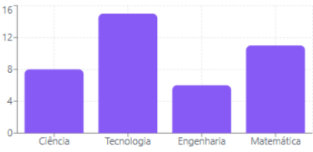
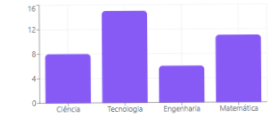
Add files via upload

Changed region(s): [[0.0, 0.025, 1.0, 0.975]]

diff --git a/index.html b/index.html
@@ -10,9 +10,10 @@
         crossorigin="anonymous">
     <title>Início</title>
 </head>
-<body>
-    <nav class="navbar navbar-expand-lg" style="background-color: #008bee;" >
-  <div class="container-fluid">
+<body style="background-color: #f5fafa;">
+  
+    <nav class="navbar navbar-expand-lg" style="background-color: #c9eaff; width: 100%;" >
+    <div class="container-fluid">
     <a class="navbar-brand" href="#">Trilha STEM</a>
     <button class="navbar-toggler" type="button" data-bs-toggle="collapse" data-bs-target="#navbarNav" aria-controls="navbarNav" aria-expanded="false" aria-label="Toggle navigation">
       <span class="navbar-toggler-icon"></span>
@@ -21,12 +22,13 @@
     </div>
   </div>
 </nav>
-<br>
 
+<br>
+<div class="body-elements">
 <div class="row row-cols-1 row-cols-md-2 g-4">
   <div class="col">
     <div class="card">
-      <div class="card-body bg-dark">        
+      <div class="card-body" style="background-color: #3066c9; border-radius: 5px;">
         <h5 class="card-title text-light">95</h5>
         <p class="card-text text-light">Total de alunos</p>
       </div>
@@ -35,7 +37,7 @@
 
   <div class="col">
     <div class="card">
-      <div class="card-body bg-success">
+      <div class="card-body" style="background-color: #289951; border-radius: 5px;">
         <h5 class="card-title text-light">77%</h5>
         <p class="card-text text-light">Engajamento médio</p>
       </div>
@@ -44,7 +46,7 @@
 
   <div class="col">
     <div class="card">
-      <div class="card-body bg-primary">
+      <div class="card-body" style="background-color: #823bb8; border-radius: 5px;">
         <h5 class="card-title text-light">82</h5>
         <p class="card-text text-light">Testes completados</p>
       </div>
@@ -53,7 +55,7 @@
 
   <div class="col">
     <div class="card">
-      <div class="card-body bg-danger">
+      <div class="card-body" style="background-color: #ce510d; border-radius: 5px;">
         <h5 class="card-title text-light">12</h5>
         <p class="card-text text-light">Precisam de atenção</p>
       </div>
@@ -67,20 +69,20 @@
   <div class="card-body">
     <div class="row">
   <div class="col-sm-6 mb-3 mb-sm-0">
-    <div class="card">
+    <div class="card" style="background-color: #f9f5e6; border-radius: 5px;">
       <div class="card-body">
         <h5 class="card-title">Crie um algoritimo de ordenação</h5>
         <p class="card-text">Detalhes da atividade.</p>
-        <a href="#" class="btn btn-warning">Ver atividade</a>
+        <a href="#" class="btn" style="background-color: #e7c78d;">Ver atividade</a>
       </div>
     </div>
   </div>
   <div class="col-sm-6">
-    <div class="card">
+    <div class="card" style="background-color: #f9f5e6; border-radius: 5px;">
       <div class="card-body">
         <h5 class="card-title">Explore as leis de newton</h5>
         <p class="card-text">Detalhes da atividade.</p>
-        <a href="#" class="btn btn-warning">Ver atividade</a>
+        <a href="#" class="btn" style="background-color: #e7c78d;">Ver atividade</a>
       </div>
     </div>
   </div>
@@ -92,7 +94,7 @@
   <div class="col">
     <div class="card">
       <h5 class="card-title">Distribuição de interesses STEM.</h5>
-      <img src="Gráfico 1.png" class="card-img-top" alt="..." >
+      <img src="Gráfico 1.png" class="card-img-top" style="  width: 100%; height: auto; max-height: 262px;" alt="..." >
       <div class="card-body">
       </div>
     </div>
@@ -101,7 +103,7 @@
   <div class="col">
     <div class="card">
       <h5 class="card-title">Nível de engajamento da turma.</h5>
-      <img src="Gráfico 2.png" class="card-img-top" alt="...">
+      <img src="Gráfico 2.png" class="card-img-top"  style="  width: 100%; height: auto; max-height: 300px;" alt="...">
       <div class="card-body">
       </div>
     </div>
@@ -110,7 +112,7 @@
 
 
 <ul class="list-group">
-  <li class="list-group-item active" aria-current="true">Minhas turmas</li>
+  <li class="list-group-item active" style="background-color: #c9eaff; color: black; border-color: #c9eaff;" aria-current="true">Minhas turmas</li>
    
  <a href="https://www.w3schools.com/css/css_position.asp" 
    class="list-group-item d-flex justify-content-between align-items-start">
@@ -118,8 +120,8 @@
     <div class="fw-bold">9º Ano A</div>
     30 alunos
   </div>
-  <span class="badge text-bg-success rounded-pill">Engajamento médio 78%</span>
-  <span class="badge text-bg-warning rounded-pill">Precisam de atenção: 4</span>
+  <span class="badge rounded-pill" style="background-color: #289951;">Engajamento médio 78%</span>
+  <span class="badge rounded-pill" style="background-color: #ce510d;">Precisam de atenção: 4</span>
 </a>
 
 
@@ -129,8 +131,8 @@
     <div class="fw-bold">9º Ano B</div>
     35 alunos
   </div>
-  <span class="badge text-bg-success rounded-pill">Engajamento médio 82%</span>
-  <span class="badge text-bg-warning rounded-pill">Precisam de atenção: 2</span>
+  <span class="badge rounded-pill" style="background-color: #289951;">Engajamento médio 82%</span>
+  <span class="badge rounded-pill" style="background-color: #ce510d;">Precisam de atenção: 2</span>
 </a>
 
  <a href="https://www.w3schools.com/css/css_position.asp" 
@@ -139,10 +141,10 @@
     <div class="fw-bold">9º Ano C</div>
     20 alunos
   </div>
-  <span class="badge text-bg-success rounded-pill">Engajamento médio 71%</span>
-  <span class="badge text-bg-warning rounded-pill">Precisam de atenção: 6</span>
+  <span class="badge rounded-pill" style="background-color: #289951;">Engajamento médio 71%</span>
+  <span class="badge rounded-pill" style="background-color: #ce510d;">Precisam de atenção: 6</span>
 </a>
-
+</div>
 
 
  <script src="https://cdn.jsdelivr.net/npm/bootstrap@5.3.8/dist/js/bootstrap.bundle.min.js"

diff --git a/style.css b/style.css
@@ -1,12 +1,12 @@
 body{
     margin: 30px;
-    padding-left: 300px;
+}
+
+.header {
+  width: 100%;
+}
+
+.body-elements {
+  padding-left: 300px;
     padding-right: 300px;
 }
-
-.card-img-top {
-  width: 100%;   /* ocupa toda a largura do card */
-  height: auto;  /* mantém proporção */
-  max-height: 300px; /* limita altura */
-}
-
